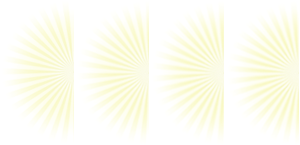
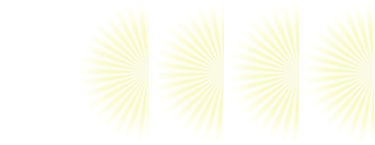
Muutoksia...
Toinen ovi toimii nyt... Poistin tuolta kansiosta nyt vähän noita
ylimääräisiä juttuja, mitä ei enää käytetä... (kuvia lähinnä)

Changed region(s): [[0.06, 0.1103, 0.99, 0.9103], [0.81, 0.5241, 0.87, 0.5517], [0.81, 0.469, 0.84, 0.4966]]

diff --git a/Peli/js/level1.js b/Peli/js/level1.js
@@ -28,17 +28,17 @@ FrogAdventures.level1.prototype = {
 		this.ground.body.immovable = true;
 
 		// Create two ledges
-		this.ledge = this.platforms.create(400, 400, 'platform');
+		this.ledge = this.platforms.create(300, 450, 'platform');
 		this.ledge.body.immovable = true;
 
-		this.ledge = this.platforms.create(-150, 250, 'platform');
+		this.ledge = this.platforms.create(-140, 400, 'platform');
 		this.ledge.body.immovable = true;
 		
 		// Next level door and it's settings
-		this.door = this.game.add.sprite(this.world.width - 60, this.game.world.height - 130, 'door');
-		this.door.animations.add('open', [0, 1, 2, 3, 4], 10);
+		this.door = this.game.add.sprite(this.world.width - 75, this.game.world.height - 180, 'door');
+		this.door.animations.add('closed', [0], 10);
 		this.game.physics.arcade.enable(this.door);
-		this.door.body.gravity.y = 300;
+		
 		
 		// Player it's settings
 		this.player = this.game.add.sprite(38, this.game.world.height - 150, 'frog');
@@ -141,7 +141,13 @@ FrogAdventures.level1.prototype = {
 		// Checks if the fly is the last one if so, opens the door	
 		if (this.a == 11)
 		{
+			this.door.animations.add('open', [1, 2, 3, 4], 10, true);
 			this.door.play('open');
+		}
+		
+		else
+		{
+			this.door.play('closed');
 		}
 
 	},

diff --git a/Peli/js/level2.js b/Peli/js/level2.js
@@ -53,10 +53,9 @@ FrogAdventures.level2.prototype = {
 		this.ledge.body.immovable = true;
 
 		// Next level door and it's settings
-		this.door = this.game.add.sprite(this.world.width - 60, this.game.world.height - 130, 'door');
-		this.door.animations.add('open', [0, 1, 2, 3, 4], 10);
+		this.door = this.game.add.sprite(this.world.width - 75, this.game.world.height - 180, 'door');
+		this.door.animations.add('closed', [0], 10);
 		this.game.physics.arcade.enable(this.door);
-		this.door.body.gravity.y = 300;
 		
 		// Player it's settings
 		this.player = this.game.add.sprite(38, this.game.world.height - 150, 'frog');
@@ -150,6 +149,7 @@ FrogAdventures.level2.prototype = {
 	
 		// Removes the fly from the screen
 		fly.kill();
+		this.a++;
 
 		// Add and update the score
 		this.score += 10;
@@ -158,7 +158,13 @@ FrogAdventures.level2.prototype = {
 		// Checks if the fly is the last one if so, opens the door	
 		if (this.a == 11)
 		{
+			this.door.animations.add('open', [1, 2, 3, 4], 10, true);
 			this.door.play('open');
+		}
+		
+		else
+		{
+			this.door.play('closed');
 		}
 
 	},

diff --git a/Peli/js/level3.js b/Peli/js/level3.js
@@ -47,10 +47,9 @@ FrogAdventures.level3.prototype = {
 		this.ledge.body.immovable = true;
 
 		// Next level door and it's settings
-		this.door = this.game.add.sprite(this.world.width - 60, this.game.world.height - 130, 'door');
-		this.door.animations.add('open', [0, 1, 2, 3, 4], 10);
+		this.door = this.game.add.sprite(this.world.width - 75, this.game.world.height - 180, 'door');
+		this.door.animations.add('closed', [0], 10);
 		this.game.physics.arcade.enable(this.door);
-		this.door.body.gravity.y = 300;
 		
 		// Player and it's settings
 		this.player = this.game.add.sprite(38, this.game.world.height - 150, 'frog');
@@ -164,7 +163,13 @@ FrogAdventures.level3.prototype = {
 		// Checks if the fly is the last one if so, opens the door	
 		if (this.a == 11)
 		{
+			this.door.animations.add('open', [1, 2, 3, 4], 10, true);
 			this.door.play('open');
+		}
+		
+		else
+		{
+			this.door.play('closed');
 		}
 
 	},

diff --git a/Peli/js/preload.js b/Peli/js/preload.js
@@ -13,7 +13,7 @@ FrogAdventures.preload.prototype = {
 		this.game.load.spritesheet('start', 'assets/start.png', 230, 70);
 		this.game.load.spritesheet('quit', 'assets/quit.png', 230, 70);
 		this.game.load.spritesheet('help', 'assets/help.png', 230, 70);
-		this.game.load.spritesheet('door', 'assets/flower.png', 65, 63);
+		this.game.load.spritesheet('door', 'assets/rays.png', 75, 145);
 		this.game.load.image('frontpage', 'assets/Game_frontpage.jpg');
 		this.game.load.image('background', 'assets/background.jpg');
 		this.game.load.image('ground', 'assets/ground.jpg');

diff --git a/Peli/js/mainmenu.js b/Peli/js/mainmenu.js
@@ -25,7 +25,7 @@ FrogAdventures.mainmenu.prototype = {
 	
 		//if (this.button.name == 'start')
 		//{
-			this.state.start('level3');
+			this.state.start('level1');
 		/*}
 		else if (this.button.name == 'help')
 		{
